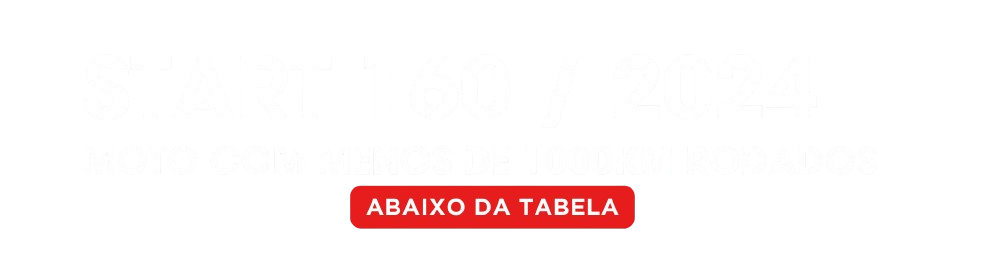
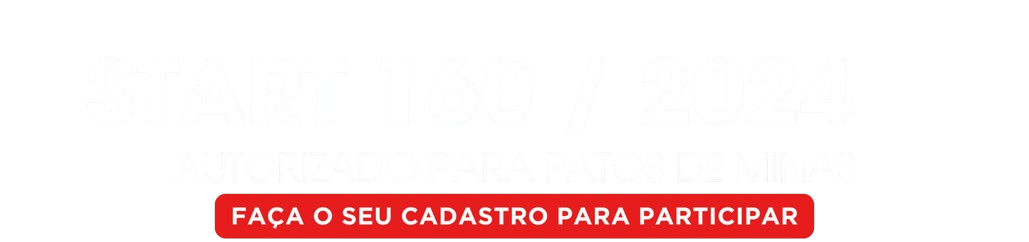
Add files via upload

Changed region(s): [[0.1827, 0.7231, 0.7919, 1.0]]

diff --git a/start 160/index.html b/start 160/index.html
@@ -49,12 +49,13 @@ j=d.createElement(s),dl=l!='dataLayer'?'&l='+l:'';j.async=true;j.src=
 height="0" width="0" style="display:none;visibility:hidden"></iframe></noscript>
 <!-- End Google Tag Manager (noscript) -->
                        
-            <img class="img-fluid" src="./assets/img/titulo.png">
+            <img class="img-fluid" src="./assets/img/titul.png">
 
             <!-- Mariner Aquário -->
-            <img class="img-fluid" src="./assets/img/celu.png">
+            <img class="img-fluid" src="./assets/img/celular.png">
             </b></h3>
 <p style = "font-family:Zapf-Chancery">
+  Para Participar Faça o seu Cadastro Via WhatsApp
 </p>
 
             <!-- Botão -->
